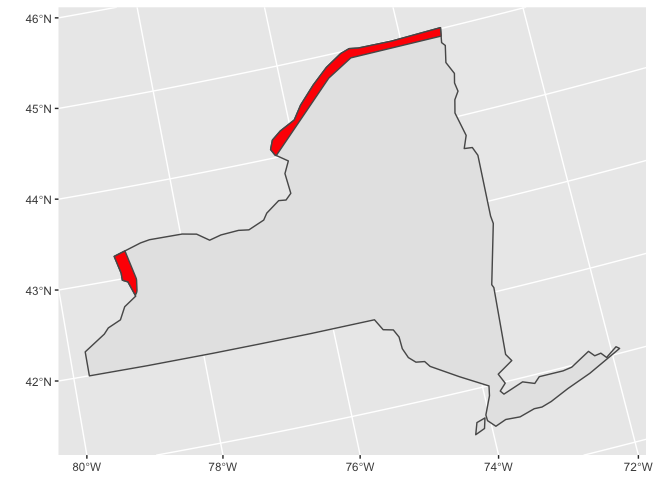
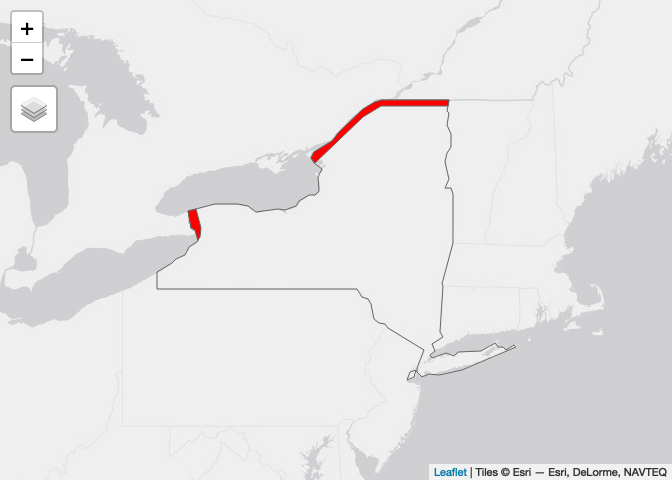
style: update figures

diff --git a/week_05/case_study_05.md b/week_05/case_study_05.md
@@ -1,7 +1,7 @@
 Case Study 05: Beware the Canadians!
 ================
 Qingqing Chen
-05 October, 2021
+07 October, 2021
 
 ## Load data
 
@@ -74,19 +74,20 @@ intersection <- st_intersection(canada_buffer, ny)
 
 ``` r
 # method 1
-tm_shape(ny) +
-  tm_borders() +
-  tm_shape(intersection) +
-  tm_polygons(col = "red")
+ggplot() +
+  geom_sf(data = ny) +
+  geom_sf(data = intersection, fill = "red")
 ```
 
 ![](case_study_05_files/figure-gfm/unnamed-chunk-5-1.png)<!-- -->
 
 ``` r
 # method 2
-ggplot() +
-  geom_sf(data = ny) +
-  geom_sf(data = intersection, fill = "red")
+tmap_mode("view")
+tm_shape(ny) +
+  tm_borders() +
+  tm_shape(intersection) +
+  tm_polygons(col = "red")
 ```
 
 ![](case_study_05_files/figure-gfm/unnamed-chunk-6-1.png)<!-- -->
